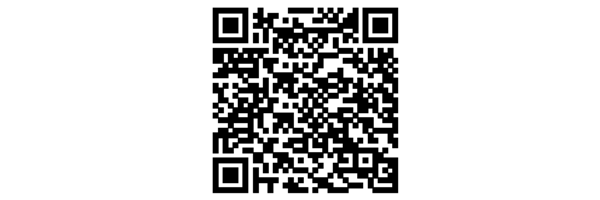
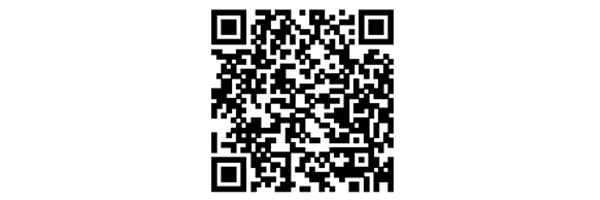
Site updated: 2018-01-25 17:09:48

Changed region(s): [[0.33, 0.03, 0.69, 0.99]]

diff --git a/download.html b/download.html
@@ -26,13 +26,14 @@
 <meta property="og:site_name" content="TinTin">
 <meta property="og:description" content="TINTIN网站App：   扫码下载或点码下载 本网站的app版，安装到手机随时随地浏览本站！   贝叶斯工具箱BNT：   点击以上按钮即可下载 下载后将文件解压放到到Matlab安装目录的toolbox目录下,然后再在命令窗口下输入如下代码：addpath(genpath(‘D:...\toolbox\bnt_master’));savepath; 输入代码检验：which test_BNT">
 <meta property="og:image" content="https://tintingo.github.io/images/TTapk.png">
+<meta property="og:image" content="https://tintingo.github.io/images/TTios.png">
 <meta property="og:image" content="https://tintingo.github.io/images/download.png">
 <meta property="og:image" content="https://tintingo.github.io/images/download.png">
 <meta property="og:image" content="https://tintingo.github.io/images/download.png">
 <meta property="og:image" content="https://tintingo.github.io/images/download.png">
 <meta property="og:image" content="https://tintingo.github.io/images/download.png">
 <meta property="og:image" content="https://tintingo.github.io/images/download.png">
-<meta property="og:updated_time" content="2018-01-22T13:53:41.305Z">
+<meta property="og:updated_time" content="2018-01-25T09:09:01.030Z">
 <meta name="twitter:card" content="summary">
 <meta name="twitter:title" content="TinTin">
 <meta name="twitter:description" content="TINTIN网站App：   扫码下载或点码下载 本网站的app版，安装到手机随时随地浏览本站！   贝叶斯工具箱BNT：   点击以上按钮即可下载 下载后将文件解压放到到Matlab安装目录的toolbox目录下,然后再在命令窗口下输入如下代码：addpath(genpath(‘D:...\toolbox\bnt_master’));savepath; 输入代码检验：which test_BNT">
@@ -176,7 +177,7 @@ var themeMenus = {};
     <div class="article-meta">
       
 	Posted on <a href="/download.html" class="article-date">
-	  <time datetime="2018-01-22T13:53:41.305Z" itemprop="datePublished">January 22, 2018</time>
+	  <time datetime="2018-01-25T09:09:01.030Z" itemprop="datePublished">January 25, 2018</time>
 	</a>
 
       
@@ -187,7 +188,7 @@ var themeMenus = {};
     </div>
     <div class="article-entry" itemprop="articleBody">
       
-        <h1 id="TINTIN网站App："><a href="#TINTIN网站App：" class="headerlink" title="TINTIN网站App："></a>TINTIN网站App：</h1><p><a href="https://service.dcloud.net.cn/build/download/53512f40-ff7b-11e7-942d-cdd0cb774898" target="_blank" rel="external"><img src="https://tintingo.github.io/images/TTapk.png" class="nofancybox"></a></p>
+        <h1 id="TINTIN网站App："><a href="#TINTIN网站App：" class="headerlink" title="TINTIN网站App："></a>TINTIN网站App：</h1><p><a href="https://service.dcloud.net.cn/build/download/6d9cfeb0-01a5-11e8-b5c5-d94729256c8e" target="_blank" rel="external"><img src="https://tintingo.github.io/images/TTapk.png" class="nofancybox"></a><br><a href="https://service.dcloud.net.cn/build/download/d4141d30-01ab-11e8-a3b1-5fb8b343e65e" target="_blank" rel="external"><img src="https://tintingo.github.io/images/TTios.png" class="nofancybox"></a></p>
 <p><blockquote><br>  <p><font color="red" size="6">扫码下载或点码下载 </font><br>本网站的app版，安装到手机随时随地浏览本站！</p><br></blockquote></p>
 <p><hr></p>
 <p><hr></p>

diff --git a/2017/11/04/TT0001/index.html b/2017/11/04/TT0001/index.html
@@ -169,7 +169,7 @@ var themeMenus = {};
 <div class="article-gallery">
   <div class="article-gallery-photos">
     
-      <a class="article-gallery-img fancybox" href="/images/T0001.jpg" rel="gallery_cjcqa8c1c00044wz0v7y7n6lk">
+      <a class="article-gallery-img fancybox" href="/images/T0001.jpg" rel="gallery_cjcua1ijr000680z0pvmvqrbl">
         <img src="/images/T0001.jpg" itemprop="image">
       </a>
     

diff --git a/2017/12/11/TT0002/index.html b/2017/12/11/TT0002/index.html
@@ -169,7 +169,7 @@ var themeMenus = {};
 <div class="article-gallery">
   <div class="article-gallery-photos">
     
-      <a class="article-gallery-img fancybox" href="/images/T0002.jpg" rel="gallery_cjcqa8c1i00084wz0ub2ux8ry">
+      <a class="article-gallery-img fancybox" href="/images/T0002.jpg" rel="gallery_cjcua1iju000980z05lxupcu5">
         <img src="/images/T0002.jpg" itemprop="image">
       </a>
     

diff --git a/2017/12/11/TT0003/index.html b/2017/12/11/TT0003/index.html
@@ -169,7 +169,7 @@ var themeMenus = {};
 <div class="article-gallery">
   <div class="article-gallery-photos">
     
-      <a class="article-gallery-img fancybox" href="/images/T0003.jpg" rel="gallery_cjcqa8c1m000e4wz04ye2apu5">
+      <a class="article-gallery-img fancybox" href="/images/T0003.jpg" rel="gallery_cjcua1ijm000480z0mow9xder">
         <img src="/images/T0003.jpg" itemprop="image">
       </a>
     

diff --git a/2017/12/11/TT0005/index.html b/2017/12/11/TT0005/index.html
@@ -169,7 +169,7 @@ var themeMenus = {};
 <div class="article-gallery">
   <div class="article-gallery-photos">
     
-      <a class="article-gallery-img fancybox" href="/images/T0005.jpg" rel="gallery_cjcqa8c1g00064wz07y1qh2cn">
+      <a class="article-gallery-img fancybox" href="/images/T0005.jpg" rel="gallery_cjcua1ijq000580z0n0jn51si">
         <img src="/images/T0005.jpg" itemprop="image">
       </a>
     

diff --git a/2017/12/11/TT0006/index.html b/2017/12/11/TT0006/index.html
@@ -169,7 +169,7 @@ var themeMenus = {};
 <div class="article-gallery">
   <div class="article-gallery-photos">
     
-      <a class="article-gallery-img fancybox" href="/images/T0006.jpg" rel="gallery_cjcqa8c1j000a4wz0xcjdw9o2">
+      <a class="article-gallery-img fancybox" href="/images/T0006.jpg" rel="gallery_cjcua1ijt000880z0f32hoult">
         <img src="/images/T0006.jpg" itemprop="image">
       </a>
     

diff --git a/2017/12/11/TT0007/index.html b/2017/12/11/TT0007/index.html
@@ -169,7 +169,7 @@ var themeMenus = {};
 <div class="article-gallery">
   <div class="article-gallery-photos">
     
-      <a class="article-gallery-img fancybox" href="/images/T0007.jpg" rel="gallery_cjcqa8c1k000b4wz0kz2x6q13">
+      <a class="article-gallery-img fancybox" href="/images/T0007.jpg" rel="gallery_cjcua1ijs000780z0a78s4rsm">
         <img src="/images/T0007.jpg" itemprop="image">
       </a>
     

diff --git a/2017/12/11/TT0008/index.html b/2017/12/11/TT0008/index.html
@@ -169,7 +169,7 @@ var themeMenus = {};
 <div class="article-gallery">
   <div class="article-gallery-photos">
     
-      <a class="article-gallery-img fancybox" href="/images/T0008.jpg" rel="gallery_cjcqa8c1l000c4wz07p9fbrc1">
+      <a class="article-gallery-img fancybox" href="/images/T0008.jpg" rel="gallery_cjcua1ijv000a80z0e3kq6yzg">
         <img src="/images/T0008.jpg" itemprop="image">
       </a>
     

diff --git a/2017/12/21/TT0009/index.html b/2017/12/21/TT0009/index.html
@@ -169,7 +169,7 @@ var themeMenus = {};
 <div class="article-gallery">
   <div class="article-gallery-photos">
     
-      <a class="article-gallery-img fancybox" href="/images/T0009.jpg" rel="gallery_cjcqa8c1y000g4wz0cl5y0lez">
+      <a class="article-gallery-img fancybox" href="/images/T0009.jpg" rel="gallery_cjcua1ijx000c80z039sh16xw">
         <img src="/images/T0009.jpg" itemprop="image">
       </a>
     

diff --git a/2017/12/22/TT0010/index.html b/2017/12/22/TT0010/index.html
@@ -169,7 +169,7 @@ var themeMenus = {};
 <div class="article-gallery">
   <div class="article-gallery-photos">
     
-      <a class="article-gallery-img fancybox" href="/images/T0010.jpg" rel="gallery_cjcqa8c1m000d4wz0f2xngqno">
+      <a class="article-gallery-img fancybox" href="/images/T0010.jpg" rel="gallery_cjcua1ijw000b80z0jp5ilxi2">
         <img src="/images/T0010.jpg" itemprop="image">
       </a>
     
